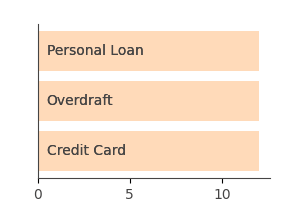
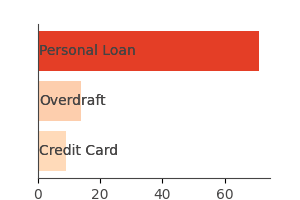
style for approach details page added

diff --git a/application/templates/results.html b/application/templates/results.html
@@ -31,20 +31,6 @@
                 <img src="{{ url_for('static', filename='images/debt_bar_stack.png') }}">
             </div>
 
-            <div>
-                {% for approach, details in results.get_debt_dict().items() %}
-                    {% if approach == 'stack' %}
-                        <table>
-                            {% for debt, repay_time in details.items() %}
-                            <tr>
-                                <td style="text-align: left;">{{ debt }}:</td>
-                                <td style="text-align: left;">{{ repay_time }} months</td>
-                            </tr>
-                            {% endfor %}
-                        </table>    
-                    {% endif %}
-                {% endfor %}
-            </div>
         </fieldset>
 
         <br>
@@ -63,23 +49,9 @@
             </div>
 
             <div>
-                <!-- add graph -->
+                <img src="{{ url_for('static', filename='images/debt_bar_snowball.png') }}">
             </div>
 
-            <div>
-                {% for approach, details in results.get_debt_dict().items() %}
-                    {% if approach == 'snowball' %}
-                        <table>
-                            {% for debt, repay_time in details.items() %}
-                            <tr>
-                                <td style="text-align: left;">{{ debt }}:</td>
-                                <td style="text-align: left;">{{ repay_time }} months</td>
-                            </tr>
-                            {% endfor %}
-                        </table>    
-                    {% endif %}
-                {% endfor %}
-            </div>
         </fieldset>
 
         <br>
@@ -98,23 +70,9 @@
             </div>
 
             <div>
-                <!-- add graph -->
+                <img src="{{ url_for('static', filename='images/debt_bar_avalanche.png') }}">
             </div>
 
-            <div>
-                {% for approach, details in results.get_debt_dict().items() %}
-                    {% if approach == 'avalanche' %}
-                        <table>
-                            {% for debt, repay_time in details.items() %}
-                            <tr>
-                                <td style="text-align: left;">{{ debt }}:</td>
-                                <td style="text-align: left;">{{ repay_time }} months</td>
-                            </tr>
-                            {% endfor %}
-                        </table>    
-                    {% endif %}
-                {% endfor %}
-            </div>
         </fieldset>
         <br>
 

diff --git a/application/templates/debt_detail.html b/application/templates/debt_detail.html
@@ -4,37 +4,19 @@
 
 <div class="main">
     <div>
-        <h1>Repayment Details</h1>
 		{% if approach == 'stack' %}
-			<h4>STACK by interest rate<br>
-			Debt Free after {{ results.get_stack_time() }}</h4>
-		{% elif approach == 'snowball' %}
-			<h4>SNOWBALL smaller debts first</h4>
-			<h4>Debt Free after {{ results.get_snowball_time() }}</h4>
-		{% else %}
-			<h4>AVALANCHE everything towards that larger debt</h4>
-			<h4>Debt Free after {{ results.get_avalanche_time() }}</h4>
-		{% endif %}
-    </div>
+			<h1>Stack Repayments</h1>
+			<h4>Debt Free after {{ results.get_stack_time() }}</h4>
 
-	<div>
-        <table class="summary">
-			<tr>
-				<th>Summary</th>
-				<th>&pound;</th>
-				<th>Repayment</th>
-				<th>APR</th>
-			</tr>
-			{% for debt_obj in results.get_debt_collection() %}
-			<tr>
-				<td>{{ debt_obj.get_identifier() }}</td>
-				<td>&pound;{{ debt_obj.get_amount() }}.</td>
-				<td>&pound;{{ debt_obj.get_repayment() }}.</td>
-				<td>{{ debt_obj.get_interest() }}%</td>
-			</tr>
-			{% endfor %}
-		</table>
-        <br>
+		{% elif approach == 'snowball' %}
+			<h1>Snowball Repayments</h1>
+			<h4>Debt Free after {{ results.get_snowball_time() }}</h4>
+
+		{% else %}
+			<h1>Avalanche Repayments</h1>
+			<h4>Debt Free after {{ results.get_avalanche_time() }}</h4>
+
+		{% endif %}
     </div>
 
 	<div>
@@ -43,22 +25,28 @@
 		<table>
 			{% for debt, repay_time in details.items() %}
 			<tr>
-				<td>{{ debt }}</td>
-				<td>{{ repay_time }} months</td>
+				<td style="text-align: left;">{{ debt }}</td>
+				<td style="text-align: right;">{{ repay_time }} months</td>
 			</tr>
 			{% endfor %}
 		</table>
 			
 		{% endif %}
 		{% endfor %}
+		<br>
+	</div>
+
+	<div class="action">
+		<img src="{{ url_for('static', filename='images/debt_pie.png') }}">
+		<br>
 	</div>
 
 	<div>
-		<p>Table showing
+		<p>Repayments Table Details:
 			<ul>
-				<li>Monthly Outstanding balance for the total sum of debt</li>
-				<li>Value of the extra cash</li>
-				<li>and Which Debt to target with the Extra Repayment</li>
+				<li>Total Sum of Debt outstanding</li>
+				<li>Which Debt to target each month</li>
+				<li>The amount of the extra repayment</li>
 			</ul></p>
 		<table class="debt_detail">
 			<tr>

diff --git a/application/static/styles/style.css b/application/static/styles/style.css
@@ -111,7 +111,7 @@ tr {
 	padding: 0;
 }
 .debt_detail tr {
-	text-align: left;
+	text-align: center;
 }
 
 .action {
